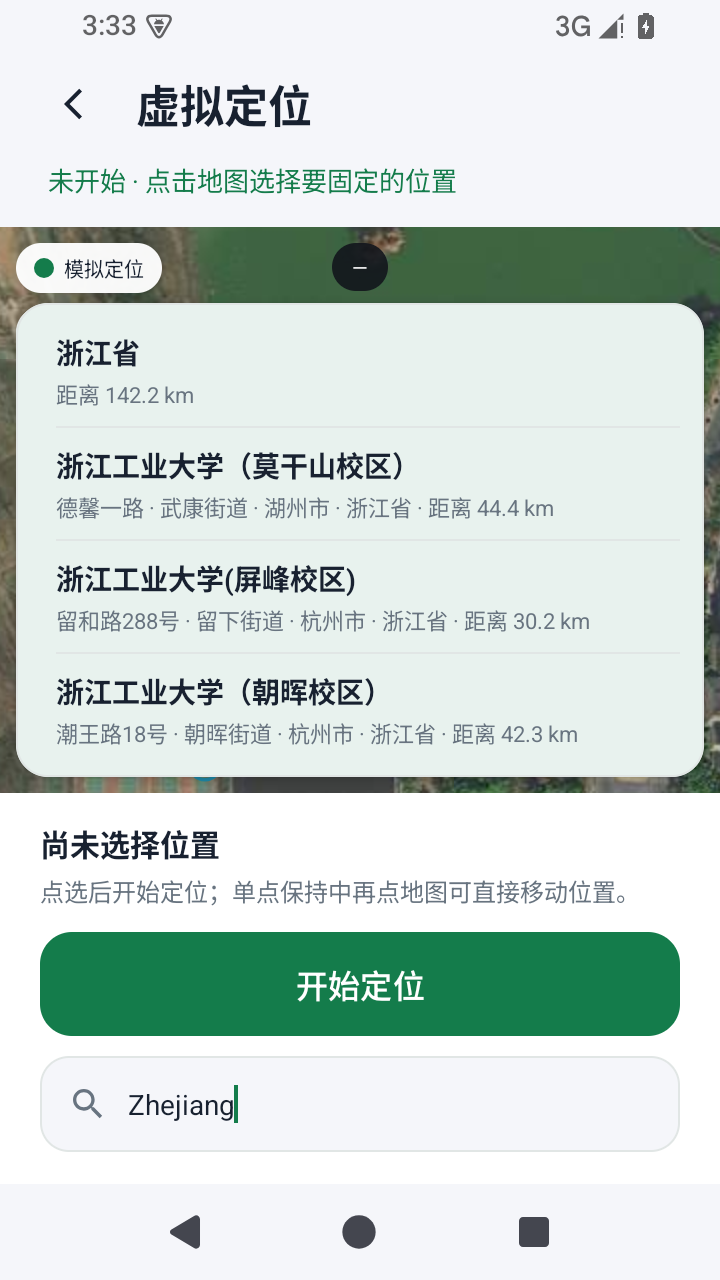
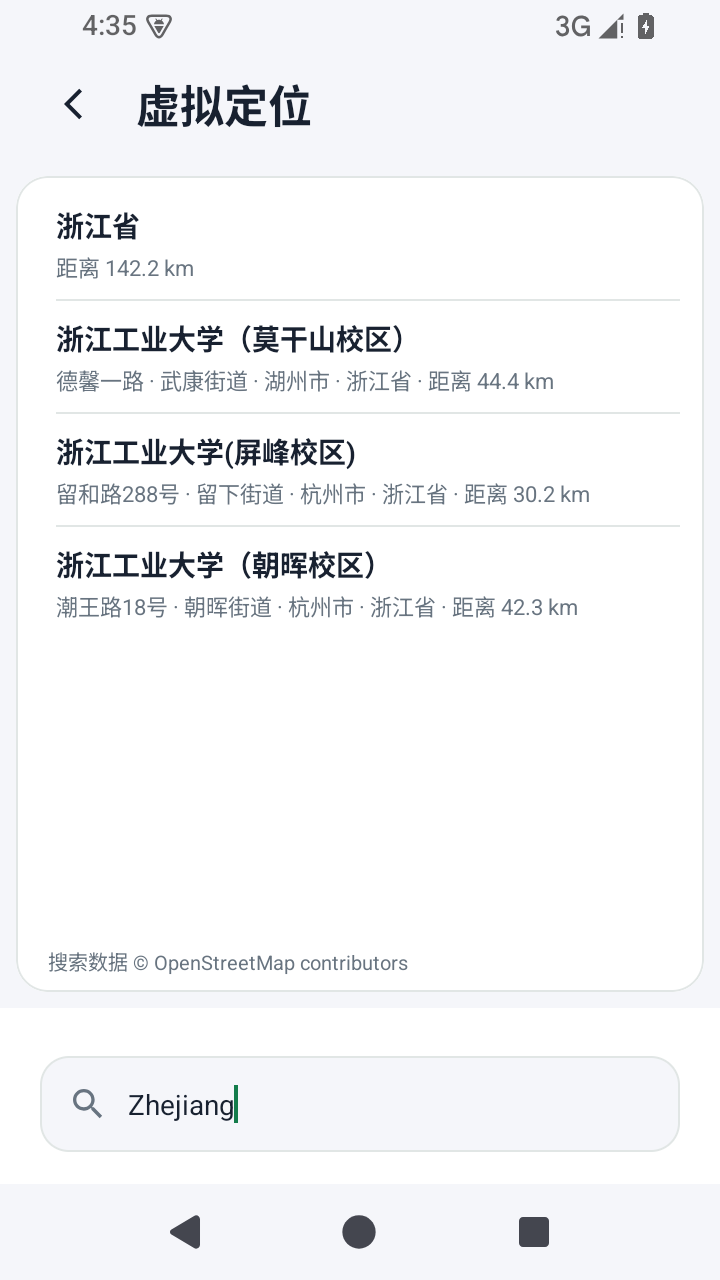
fix: 搜索结果改为页面内列表，键盘弹出时保持可见
- 搜索时地图与选点信息让位，结果列表占满剩余空间并可滚动；
  原实现把结果卡放在地图内，键盘弹出后地图仅剩几十 dp，结果被裁剪不可见。
- 结果列表补充 OpenStreetMap 数据署名。
- 离开搜索态时取消在途查询，避免结果被重新弹回。
- 返回键/左上角返回优先退出搜索态，再离开页面。
- 更新 CampusWorkspaceTest：首页状态断言改用活动任务卡标题。

Changed region(s): [[0.0, 0.125, 1.0, 0.8125], [0.1222, 0.0, 0.1528, 0.0312]]

diff --git a/app/src/main/java/org/localroute/app/ui/VirtualLocationActivity.java b/app/src/main/java/org/localroute/app/ui/VirtualLocationActivity.java
@@ -20,6 +20,7 @@ import android.widget.LinearLayout;
 import android.widget.TextView;
 import android.widget.Toast;
 
+import androidx.activity.OnBackPressedCallback;
 import androidx.activity.result.ActivityResultLauncher;
 import androidx.activity.result.contract.ActivityResultContracts;
 import androidx.annotation.NonNull;
@@ -83,6 +84,8 @@ public final class VirtualLocationActivity extends AppCompatActivity {
     private boolean pendingStart;
     private boolean pendingLocate;
     private boolean startRequested;
+    /** 搜索模式：地图与选点信息让位，结果列表占满剩余空间，键盘弹出时仍可见。 */
+    private boolean searchMode;
     private ActivityResultLauncher<String[]> permissionLauncher;
 
     private final Handler mainHandler = new Handler(Looper.getMainLooper());
@@ -117,7 +120,23 @@ public final class VirtualLocationActivity extends AppCompatActivity {
 
         permissionLauncher = registerForActivityResult(
                 new ActivityResultContracts.RequestMultiplePermissions(), this::onPermissionResult);
-        binding.buttonVirtualBack.setOnClickListener(v -> finish());
+        binding.buttonVirtualBack.setOnClickListener(v -> {
+            if (searchMode) {
+                dismissSearchMode();
+            } else {
+                finish();
+            }
+        });
+        getOnBackPressedDispatcher().addCallback(this, new OnBackPressedCallback(true) {
+            @Override
+            public void handleOnBackPressed() {
+                if (searchMode) {
+                    dismissSearchMode();
+                    return;
+                }
+                finish();
+            }
+        });
         binding.textMapLayer.setOnClickListener(v -> showMapLayerDialog());
         binding.buttonVirtualMain.setOnClickListener(v -> onMainAction());
         binding.buttonLocateNow.setOnClickListener(v -> locateNow());
@@ -311,8 +330,9 @@ public final class VirtualLocationActivity extends AppCompatActivity {
     }
 
     private void renderSearchResults(List<PhotonSearch.Place> places) {
-        binding.cardSearchResults.setVisibility(View.VISIBLE);
+        enterSearchMode();
         binding.textSearchStatus.setVisibility(View.GONE);
+        binding.textSearchAttribution.setVisibility(View.VISIBLE);
         LinearLayout container = binding.searchResultsContainer;
         container.removeAllViews();
         GeoPoint origin = cachedDeviceLocation != null ? cachedDeviceLocation
@@ -370,16 +390,55 @@ public final class VirtualLocationActivity extends AppCompatActivity {
     }
 
     private void showSearchStatus(String message) {
-        binding.cardSearchResults.setVisibility(View.VISIBLE);
+        enterSearchMode();
         binding.textSearchStatus.setVisibility(View.VISIBLE);
         binding.textSearchStatus.setText(message);
+        binding.textSearchAttribution.setVisibility(View.GONE);
         binding.searchResultsContainer.removeAllViews();
     }
 
-    private void hideSearchResults() {
+    /** 进入搜索模式：收起地图与选点信息，把纵向空间留给结果列表。 */
+    private void enterSearchMode() {
+        if (searchMode) {
+            return;
+        }
+        searchMode = true;
+        binding.mapContainer.setVisibility(View.GONE);
+        binding.textVirtualStatus.setVisibility(View.GONE);
+        binding.textVirtualTarget.setVisibility(View.GONE);
+        binding.textVirtualHintInfo.setVisibility(View.GONE);
+        binding.buttonVirtualMain.setVisibility(View.GONE);
+        binding.cardSearchResults.setVisibility(View.VISIBLE);
+    }
+
+    private void exitSearchMode() {
+        if (!searchMode) {
+            return;
+        }
+        searchMode = false;
         binding.cardSearchResults.setVisibility(View.GONE);
+        binding.mapContainer.setVisibility(View.VISIBLE);
+        binding.textVirtualStatus.setVisibility(View.VISIBLE);
+        binding.textVirtualTarget.setVisibility(View.VISIBLE);
+        binding.textVirtualHintInfo.setVisibility(View.VISIBLE);
+        binding.buttonVirtualMain.setVisibility(View.VISIBLE);
+        render();
+    }
+
+    private void hideSearchResults() {
+        // 让在途搜索的结果失效，避免用户离开搜索态后结果又被重新弹回。
+        ++searchGeneration;
+        exitSearchMode();
         binding.textSearchStatus.setVisibility(View.GONE);
+        binding.textSearchAttribution.setVisibility(View.GONE);
         binding.searchResultsContainer.removeAllViews();
+    }
+
+    /** 返回键/左上角返回：先退出搜索态，再回到地图，不直接离开页面。 */
+    private void dismissSearchMode() {
+        hideSearchResults();
+        hideKeyboard();
+        binding.inputPlaceSearch.clearFocus();
     }
 
     // ---------------------------------------------------------------- 回到实际位置

diff --git a/app/src/androidTest/java/org/localroute/app/ui/CampusWorkspaceTest.java b/app/src/androidTest/java/org/localroute/app/ui/CampusWorkspaceTest.java
@@ -189,7 +189,8 @@ public class CampusWorkspaceTest {
             await(() -> SimulationStateRepo.get().current().state() == RunState.PAUSED);
             pressBack();
             onView(withId(R.id.cardActiveRun)).check(matches(isDisplayed()));
-            onView(withId(R.id.textRunStatus)).check(matches(withText(R.string.fm_run_paused)));
+            onView(withId(R.id.textActiveRunTitle))
+                    .check(matches(withText(containsString(context.getString(R.string.run_state_paused)))));
             capture("05-home-paused-task");
             onView(withId(R.id.cardActiveRun)).perform(click());
             assertEquals(runId, SimulationStateRepo.get().current().runId());
